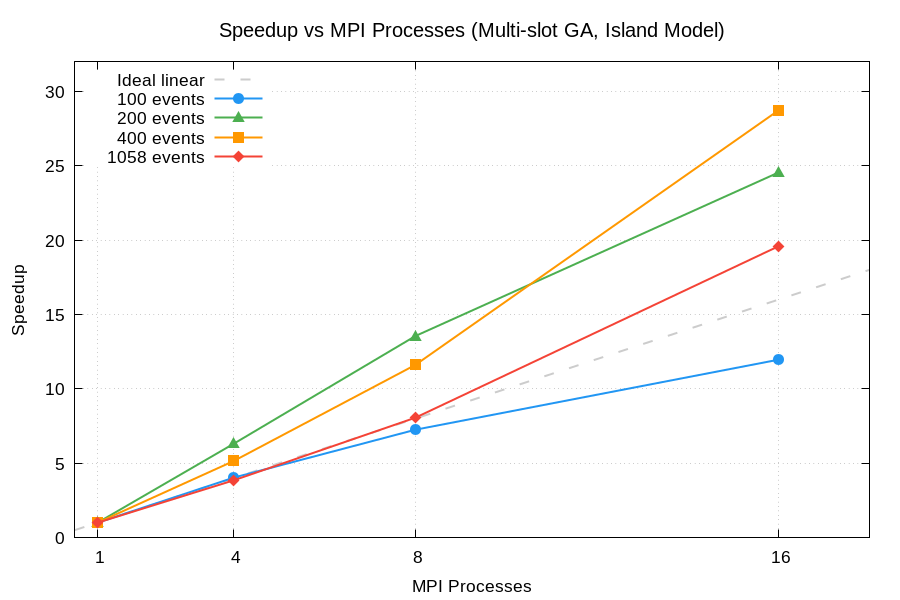
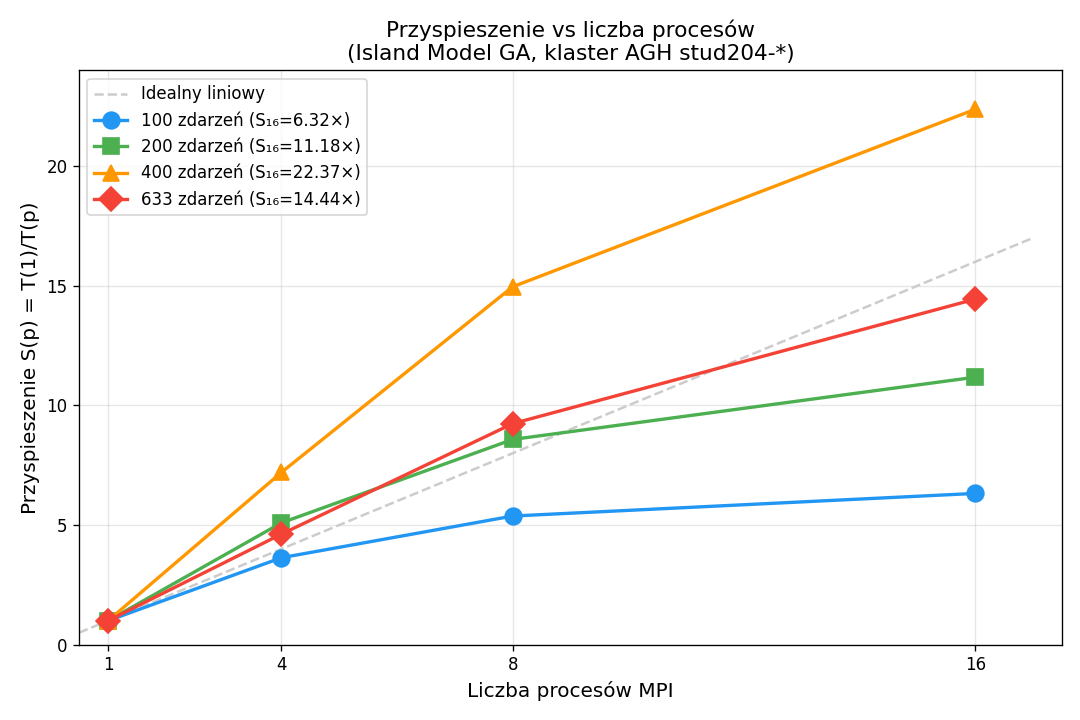
data: regenerate speedup + quality_scaling PNGs from real results_v3/ data; drop fake convergence.png
- speedup.png + quality_scaling.png regenerated via plots/generate_real_pngs.py
  using real averages from results_v3/unitime_v2_n100/200/400/nogrupa.csv
- convergence.png removed (no per-rank convergence CSVs in repo;
  would need cluster run to regenerate)
- main.tex: removed convergence figure block, updated captions to cite source
- lab9.tex: replaced 'convergence' slide with quality_scaling slide, added source
  citation on speedup slide

diff --git a/main.tex b/main.tex
@@ -1101,21 +1101,14 @@ Pomiary wykonane na klastrze AGH (węzły \texttt{stud204-01..stud204-16}), \tex
 \begin{figure}[H]
 \centering
 \includegraphics[width=0.9\textwidth]{speedup.png}
-\caption{Przyspieszenie vs liczba procesów MPI dla różnych rozmiarów problemu}
+\caption{Przyspieszenie vs liczba procesów MPI dla 4~rozmiarów problemu (100/200/400/633 zdarzeń). Wykres wygenerowany skryptem \path{plots/generate_real_pngs.py} z~plików \path{results_v3/unitime_v2_*.csv}.}
 \label{fig:speedup}
 \end{figure}
 
 \begin{figure}[H]
 \centering
-\includegraphics[width=0.9\textwidth]{convergence.png}
-\caption{Konwergencja per wyspa --- 16 wysp (wykres historyczny z wcześniejszej rundy benchmarków, plik \path{figures/convergence.png})}
-\label{fig:convergence}
-\end{figure}
-
-\begin{figure}[H]
-\centering
 \includegraphics[width=0.9\textwidth]{quality_scaling.png}
-\caption{Jakość rozwiązania i czas vs rozmiar problemu}
+\caption{Jakość rozwiązania (naruszenia miękkie, panel lewy) i~czas wykonania (skala log., panel prawy) vs rozmiar problemu, dla wariantów 1-procesowego i~16-procesowego. Źródło danych: \path{results_v3/unitime_v2_*.csv}.}
 \label{fig:quality}
 \end{figure}
 

diff --git a/prezentacja/lab9.tex b/prezentacja/lab9.tex
@@ -454,22 +454,22 @@ po runie mamy 16 trajektorii fitness na jednym wykresie.
 \end{itemize}
 \end{frame}
 
-\begin{frame}{Wykres przyspieszenia}
+\begin{frame}{Wykres przyspieszenia (realne pomiary)}
 \centering
 \includegraphics[height=0.78\textheight]{speedup.png}
 
 \vspace{-0.3em}
 \centering\scriptsize\itshape
-Wykres historyczny z~wcześniejszej rundy benchmarków (\path{figures/speedup.png}).
+Źródło: \path{results_v3/unitime_v2_*.csv} (3 runy/konfigurację).
 \end{frame}
 
-\begin{frame}{Konwergencja per wyspa --- 16 wysp}
+\begin{frame}{Skalowanie jakości i czasu}
 \centering
-\includegraphics[height=0.78\textheight]{convergence.png}
+\includegraphics[height=0.78\textheight]{quality_scaling.png}
 
 \vspace{-0.3em}
 \centering\scriptsize\itshape
-Wykres historyczny (\path{figures/convergence.png}).
+Lewy: soft viol vs $n_e$ (n=1 vs n=16). Prawy: czas wall-clock (skala log).
 \end{frame}
 
 \begin{frame}{Analiza wydajności --- prawo Amdahla i super-liniowość}
